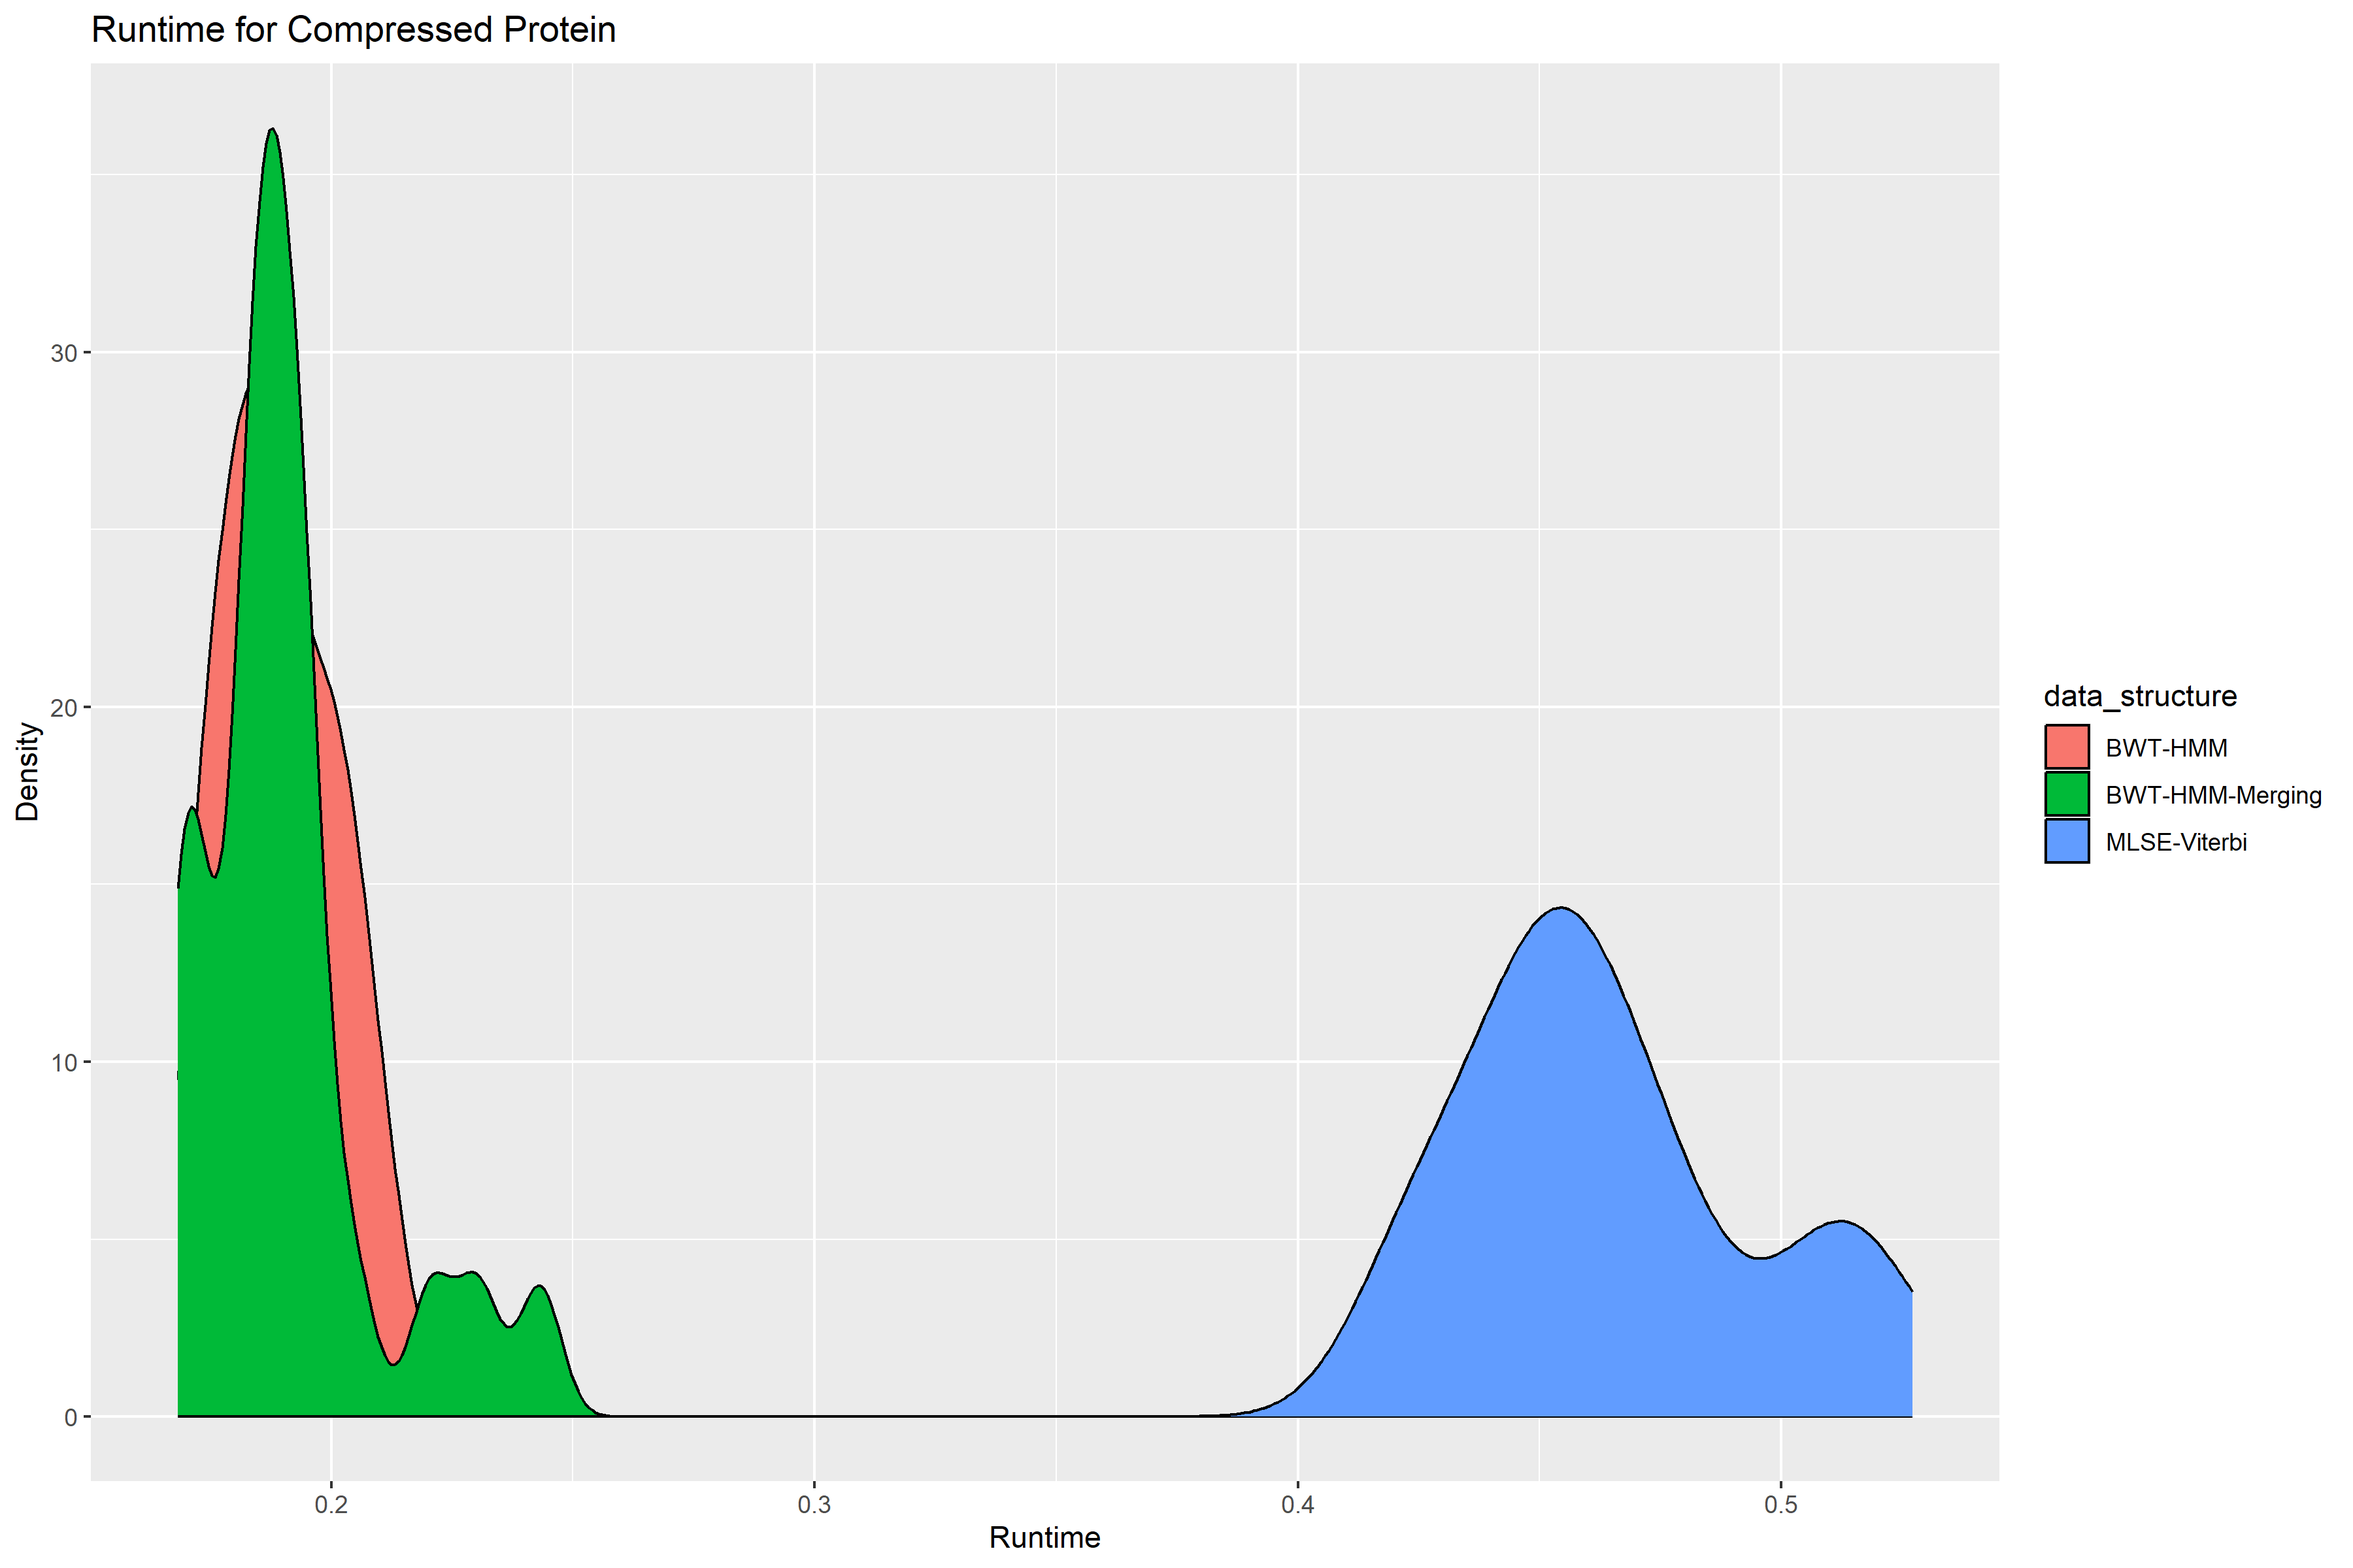
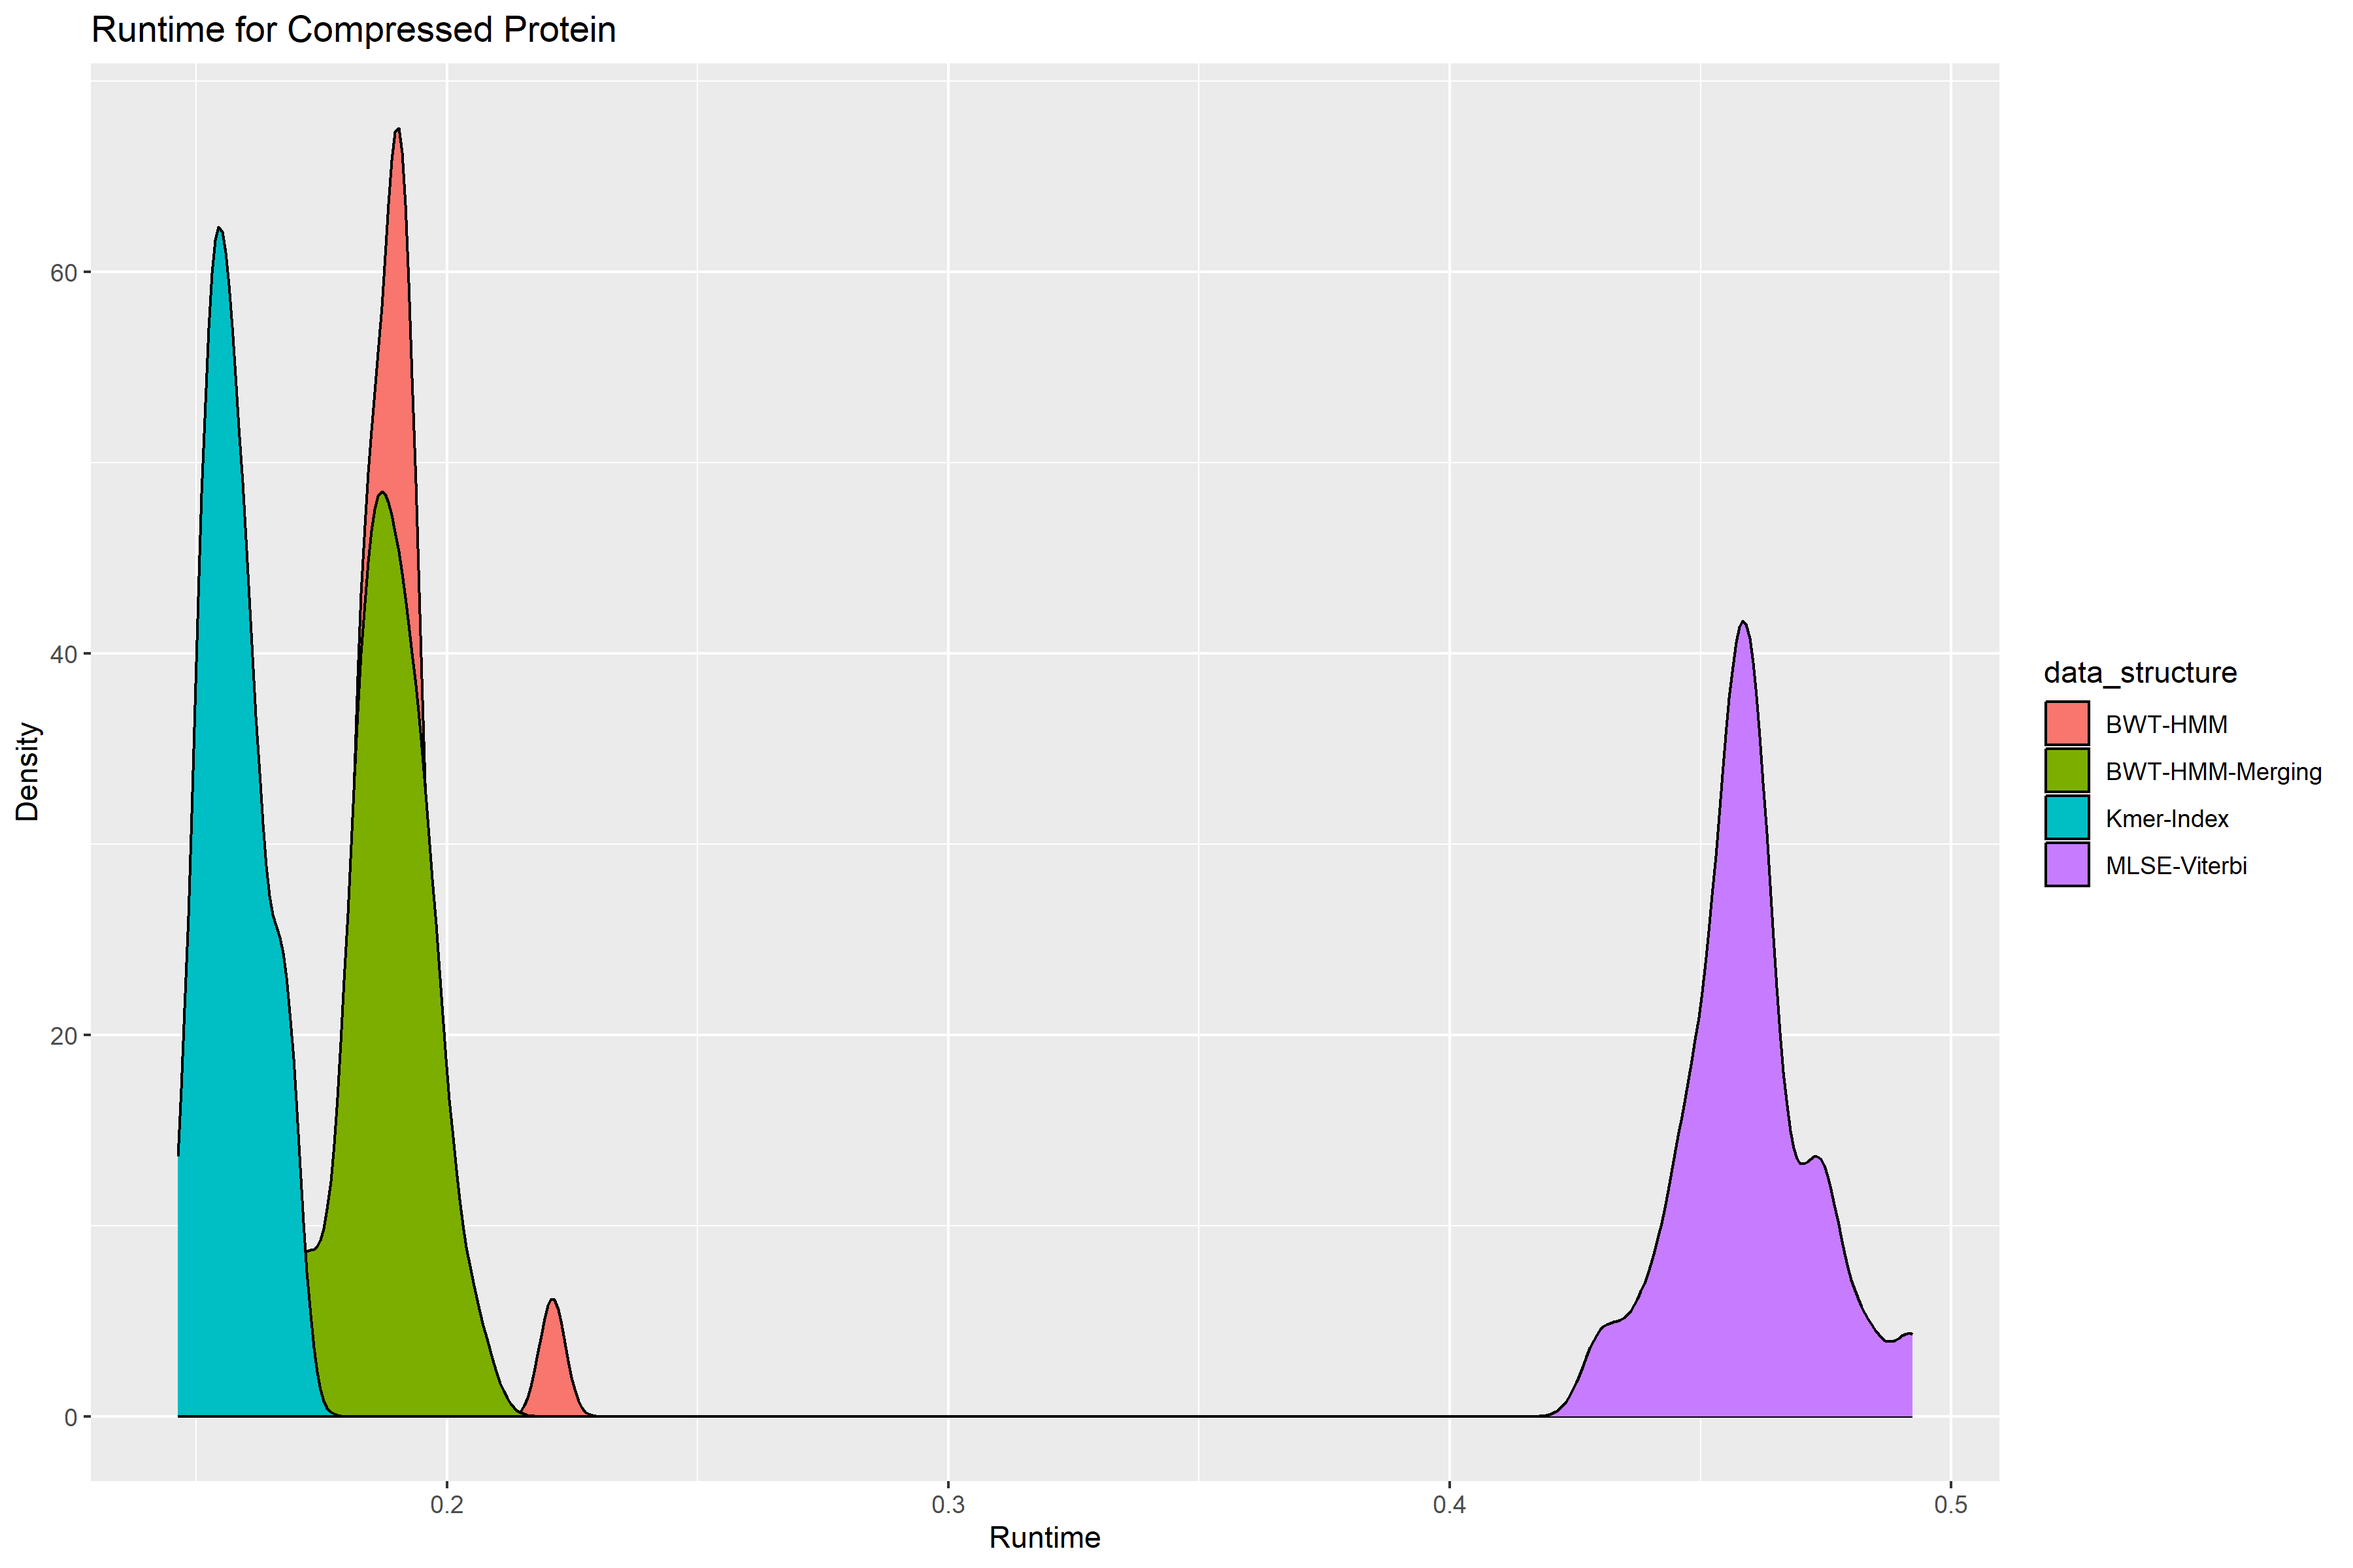
adjusting kmer size

Changed region(s): [[0.0622, 0.0938, 0.2489, 0.9062], [0.5289, 0.4062, 0.84, 0.9062], [0.8711, 0.4062, 0.9956, 0.5625]]

diff --git a/kmerindex/kmerindex.py b/kmerindex/kmerindex.py
@@ -16,7 +16,7 @@ for i in range(len(lines)):
 '''
 Takes a sequence and outputs the 10 best matching kmers with all ks between kmin and kmax
 '''
-def kmerindex(sequence, kmin=5, kmax=6):
+def kmerindex(sequence, kmin=35, kmax=36):
     
     # Records all kmers with their occurances in the form (occurance * length, kmer)
     commonkmers = []
